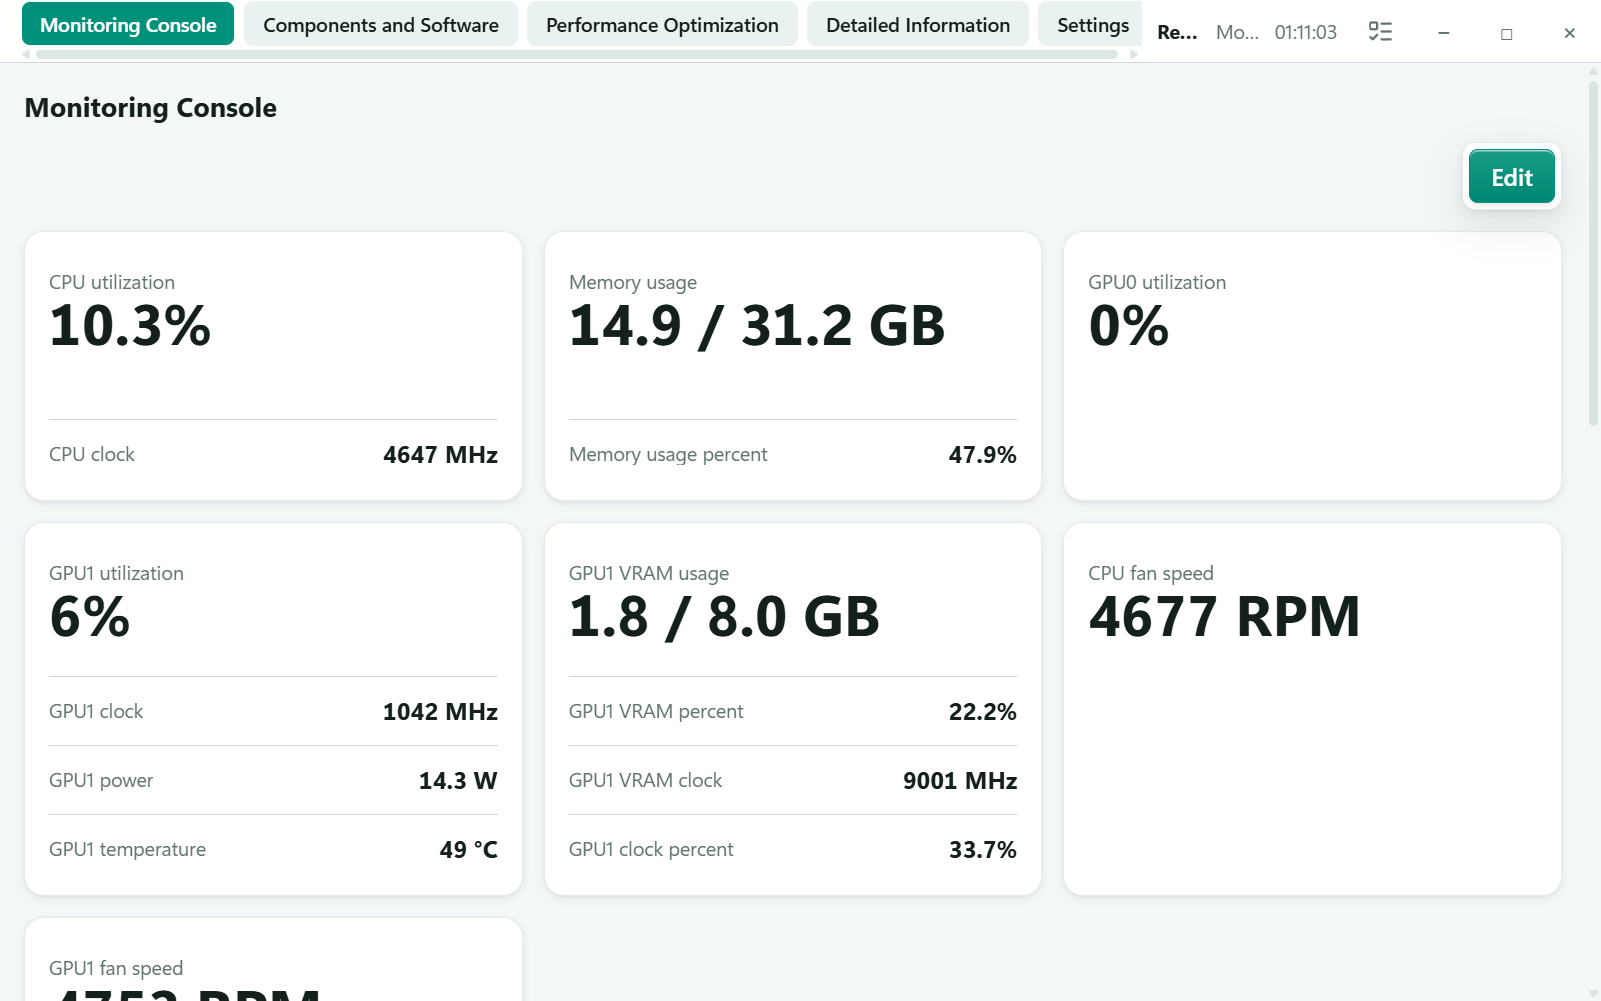
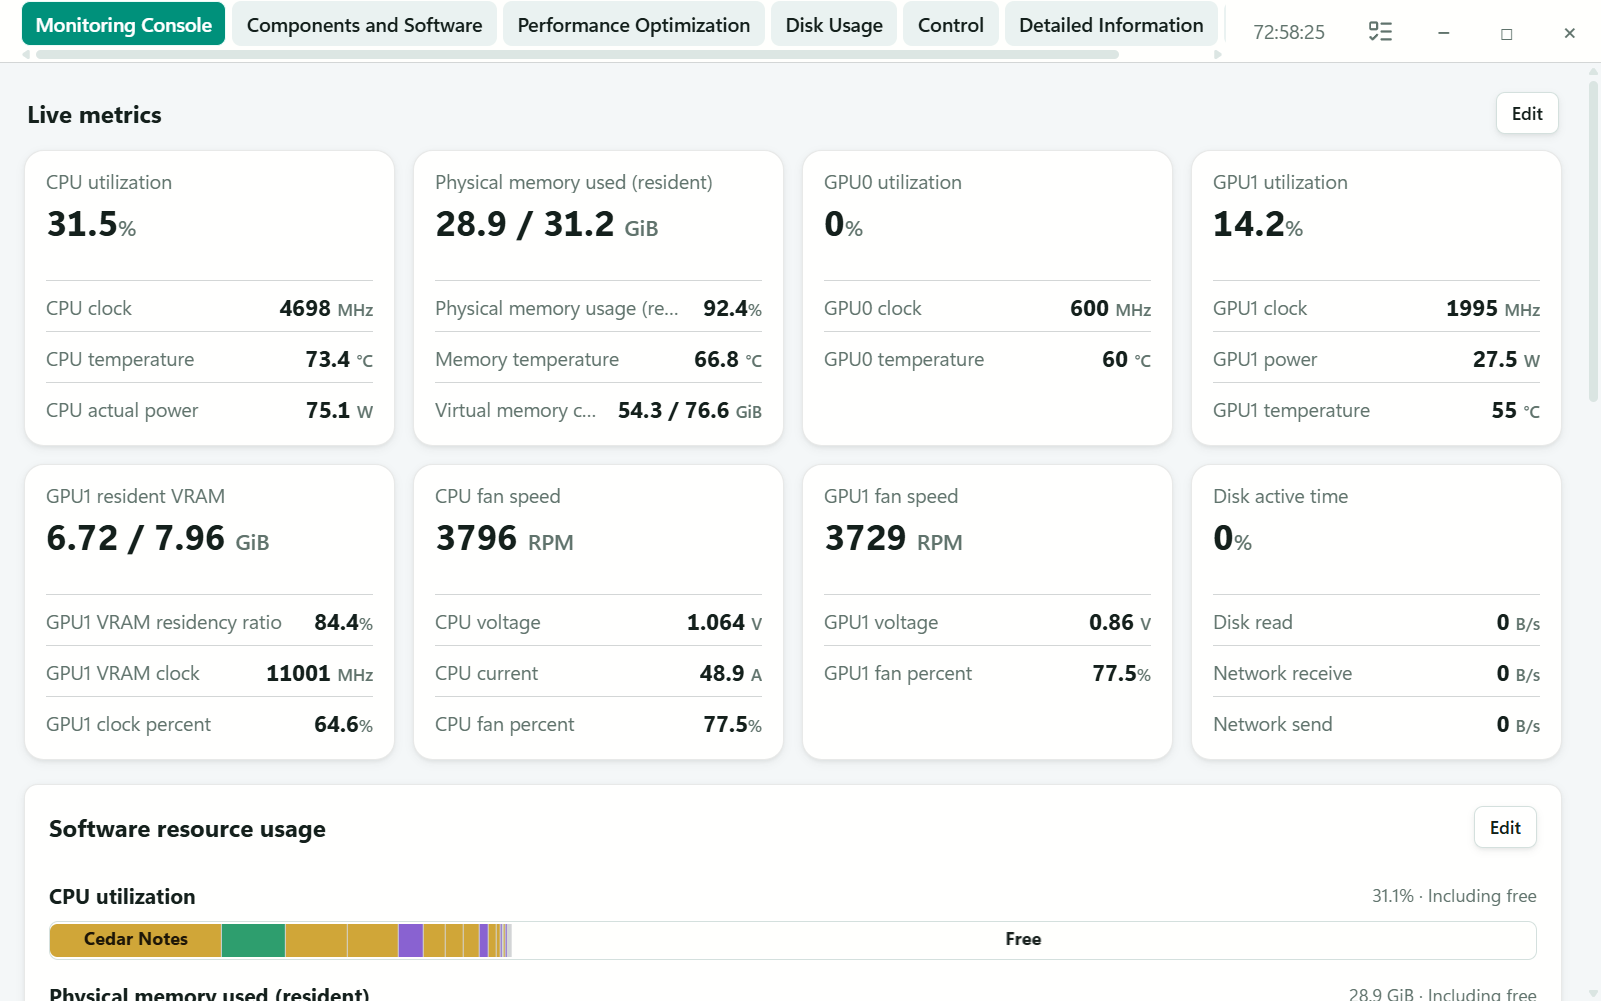
Refresh the README screenshots on the current release and describe the disk usage page

diff --git a/README.md b/README.md
@@ -112,6 +112,16 @@ This helps you catch **memory leaks**, **misbehaving software**, **disk killers*
 
 ---
 
+## 💽 Disk Usage
+
+Wondering where your space went? After a scan, files and folders are laid out as a **treemap** sized by how much they actually take up; open a block to go one level deeper until you find what is filling the disk.
+
+![Disk usage](docs/screenshots/en/13-disk-usage.png)
+
+Scan every disk, one disk, or a single folder. **Fast scan** reads the NTFS file-system index directly and needs administrator rights; **Full scan** walks the folders one by one, which is slower but works on any disk. Scanning only reads file information and never changes or deletes files.
+
+---
+
 ## 🎛 Hardware Control
 
 Balance performance, power and noise from one place. The control page brings together the CPU, GPU and fan adjustments available on your hardware, with live readings beside the controls so you can see the current state before changing it.

diff --git a/README.zh-CN.md b/README.zh-CN.md
@@ -112,6 +112,16 @@
 
 ---
 
+## 💽 磁盘占用
+
+想知道空间都去哪了？扫描后，文件和文件夹按真实大小摆成**方格图**，越大的占得越多，一层层点进去就能找到占空间的东西。
+
+![磁盘占用](docs/screenshots/zh/13-disk-usage.png)
+
+可以扫全部磁盘、某一个磁盘，或某个文件夹。**快速扫描**直接读 NTFS 的文件系统索引，需要管理员权限；**全扫描**逐级遍历目录，慢一些，但任何磁盘都能扫。扫描只读文件信息，不会改动或删除任何文件。
+
+---
+
 ## 🎛 硬件控制
 
 把性能、功耗和噪声调到适合自己的平衡点。控制面集中展示当前硬件可用的 CPU、GPU 和风扇调节项，实时读数与调节控件放在一起，先看清现状，再决定怎么调。
